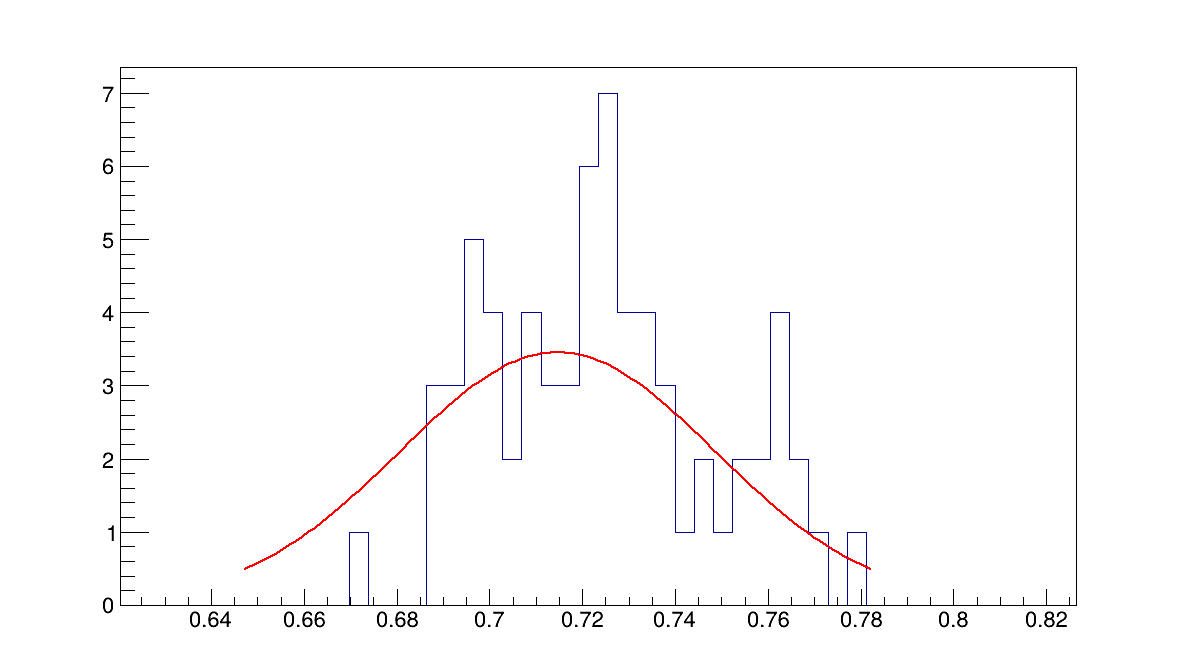
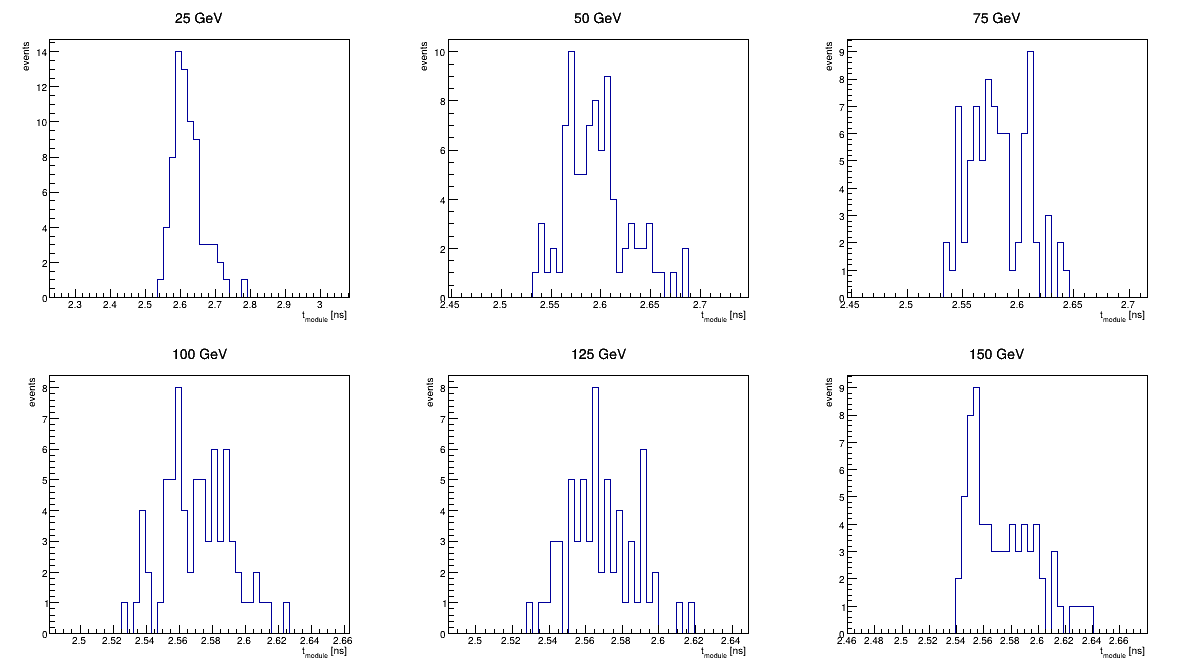
Add realistic readout model (MCP reference + SiPM jitter); paper match
- Realistic MCP reference resolution (default 18 ps, the R3809U-50 spec) and
  per-SiPM-channel electronics jitter, applied to the leading-edge hit times.
  New UI commands /radical/optical/mcpResolution and /radical/optical/sipmJitter.
  (The earlier MCP fix had made the reference unrealistically perfect at ~0.6 ps.)
- With this, the high-statistics scan (macros/timing_scan_hi.mac) reproduces the
  paper: intrinsic module sigma_t = a/sqrt(E) (+) b with a~210, b~9 ps (paper
  256, 17.5), and the as-measured sigma(t_module - t_MCP) lands on the paper's
  curve at high energy (125 GeV -> 27 ps, 150 GeV -> 30 ps; paper 27 ps).
- analysis/analyze.C: use a stable trimmed-RMS Gaussian-core width (the prior
  Gaussian fit diverged on small samples); trim to +/-2.5 MAD-sigma to fit the
  peak like the paper, excluding non-Gaussian low-energy late tails.

diff --git a/analysis/analyze.C b/analysis/analyze.C
@@ -41,7 +41,9 @@ struct RunResult {
   double sigMCPErr = 0;
 };
 
-// Robust Gaussian width (returned in ps) of a list of times (ns).
+// Robust timing width (returned in ps) of a list of times (ns): the trimmed
+// standard deviation about the median (within +/-4 MAD-sigma). This is stable
+// on small samples, where a Gaussian fit can diverge.
 static void FitGauss(std::vector<double> v, double& sig, double& sigErr,
                      TCanvas* c, int pad, const char* title) {
   sig = sigErr = 0;
@@ -51,23 +53,29 @@ static void FitGauss(std::vector<double> v, double& sig, double& sigErr,
   std::vector<double> ad;
   for (double x : v) ad.push_back(std::fabs(x - med));
   std::sort(ad.begin(), ad.end());
-  double rsig = std::max(1.4826 * ad[ad.size() / 2], 0.01);
+  double rsig = std::max(1.4826 * ad[ad.size() / 2], 0.005);
+
+  // trimmed mean & standard deviation of the Gaussian CORE (+/-2.5 MAD-sigma),
+  // matching the paper's practice of fitting the peak (non-Gaussian low-energy
+  // late tails, from channels with few p.e., are excluded).
+  double s = 0, s2 = 0; int n = 0;
   std::vector<double> core;
-  for (double x : v) if (std::fabs(x - med) < 4 * rsig) core.push_back(x);
-  if (core.size() < 8) core = v;
-  double win = std::max(4 * rsig, 0.08);
-  static int uid = 0; ++uid;
-  auto* h = new TH1D(Form("hg_%d", uid), title, 50, med - win, med + win);
-  for (double x : core) h->Fill(x);
-  h->Fit("gaus", "Q");
-  TF1* g = h->GetFunction("gaus");
-  for (int it = 0; it < 3 && g; ++it) {
-    double m = g->GetParameter(1), s = g->GetParameter(2);
-    h->Fit("gaus", "Q", "", m - 2 * s, m + 2 * s);
-    g = h->GetFunction("gaus");
+  for (double x : v)
+    if (std::fabs(x - med) < 2.5 * rsig) { s += x; s2 += x * x; ++n; core.push_back(x); }
+  if (n < 5) { s = s2 = 0; n = 0; for (double x : v) { s += x; s2 += x * x; ++n; } core = v; }
+  double mean = s / n, var = s2 / n - mean * mean;
+  if (var < 0) var = 0;
+  sig = std::sqrt(var) * 1000.;          // ps
+  sigErr = sig / std::sqrt(2.0 * n);     // approximate error on a width
+
+  // draw the distribution for the dt-distributions canvas
+  if (c && pad > 0) {
+    double win = std::max(4 * rsig, 0.05);
+    static int uid = 0; ++uid;
+    auto* h = new TH1D(Form("hg_%d", uid), title, 50, med - win, med + win);
+    for (double x : core) h->Fill(x);
+    c->cd(pad); h->Draw();
   }
-  if (g) { sig = g->GetParameter(2) * 1000.; sigErr = g->GetParError(2) * 1000.; }
-  if (c && pad > 0) { c->cd(pad); h->Draw(); }
 }
 
 // ---- locate the available run files -------------------------------------

diff --git a/src/RadicalDetectorMessenger.cc b/src/RadicalDetectorMessenger.cc
@@ -5,6 +5,7 @@
 #include "RadicalDetectorConstruction.hh"
 #include "RadicalMaterials.hh"
 #include "RadicalStackingAction.hh"
+#include "RadicalEventAction.hh"
 
 #include "G4UIdirectory.hh"
 #include "G4UIcmdWithAString.hh"
@@ -82,6 +83,16 @@ RadicalDetectorMessenger::RadicalDetectorMessenger(
   fMaxPhotons = new G4UIcmdWithAnInteger("/radical/optical/maxPhotons", this);
   fMaxPhotons->SetGuidance("Per-event optical photon cap (0 = no cap)");
   fMaxPhotons->SetParameterName("n", false);
+
+  fMcpRes = new G4UIcmdWithADoubleAndUnit("/radical/optical/mcpResolution", this);
+  fMcpRes->SetGuidance("MCP reference single-shot time resolution (e.g. 18 ps)");
+  fMcpRes->SetParameterName("t", false);
+  fMcpRes->SetUnitCategory("Time");
+
+  fSipmJit = new G4UIcmdWithADoubleAndUnit("/radical/optical/sipmJitter", this);
+  fSipmJit->SetGuidance("Per-SiPM-channel electronics time jitter");
+  fSipmJit->SetParameterName("t", false);
+  fSipmJit->SetUnitCategory("Time");
 }
 
 RadicalDetectorMessenger::~RadicalDetectorMessenger() {
@@ -89,7 +100,7 @@ RadicalDetectorMessenger::~RadicalDetectorMessenger() {
   delete fNx; delete fNy; delete fSizeX; delete fSizeY; delete fHexR;
   delete fTyvek; delete fBeamline; delete fMCP; delete fPbGlass;
   delete fCounters; delete fCheckOverlaps; delete fUpdate;
-  delete fYieldScale; delete fMaxPhotons;
+  delete fYieldScale; delete fMaxPhotons; delete fMcpRes; delete fSipmJit;
   delete fGeoDir; delete fOptDir;
 }
 
@@ -137,5 +148,9 @@ void RadicalDetectorMessenger::SetNewValue(G4UIcommand* cmd, G4String v) {
     RadicalMaterials::SetYieldScale(fYieldScale->GetNewDoubleValue(v));
   } else if (cmd == fMaxPhotons) {
     RadicalStackingAction::SetMaxOpticalPhotons(fMaxPhotons->GetNewIntValue(v));
+  } else if (cmd == fMcpRes) {
+    RadicalEventAction::SetMCPResolution(fMcpRes->GetNewDoubleValue(v));
+  } else if (cmd == fSipmJit) {
+    RadicalEventAction::SetSiPMJitter(fSipmJit->GetNewDoubleValue(v));
   }
 }

diff --git a/src/RadicalEventAction.cc b/src/RadicalEventAction.cc
@@ -12,8 +12,13 @@
 #include "G4PrimaryVertex.hh"
 #include "G4PrimaryParticle.hh"
 #include "G4SystemOfUnits.hh"
+#include "Randomize.hh"
 #include <algorithm>
 #include <limits>
+
+// Realistic readout resolutions (defaults: realistic MCP reference, ideal SiPM).
+G4double RadicalEventAction::fMCPres = 0.018 * CLHEP::ns;  // ~18 ps reference
+G4double RadicalEventAction::fSiPMjit = 0.0;               // per-channel jitter
 
 void RadicalEventAction::BeginOfEventAction(const G4Event*) {
   fSiPM.clear();
@@ -122,7 +127,9 @@ void RadicalEventAction::EndOfEventAction(const G4Event* evt) {
     const G4int module = (G4int)(kv.first / 1000);
     const G4int channel = (G4int)(kv.first % 1000);
     const G4int npe = (G4int)kv.second.size();
-    const G4double tHit = ThresholdTime(kv.second, kSiPMThreshold) / ns;
+    G4double tHitNs = ThresholdTime(kv.second, kSiPMThreshold);
+    if (tHitNs < 1.e8) tHitNs += G4RandGauss::shoot(0., fSiPMjit);  // electronics
+    const G4double tHit = tHitNs / ns;
     npeSiPM += npe;
     ana->FillNtupleIColumn(radana::kChannel, 0, eid);
     ana->FillNtupleIColumn(radana::kChannel, 1, module);
@@ -142,7 +149,9 @@ void RadicalEventAction::EndOfEventAction(const G4Event* evt) {
 
   // ---- timing ------------------------------------------------------------
   const G4int npeMCP = (G4int)fMCP.size();
-  const G4double tMCP = ThresholdTime(fMCP, kMCPThreshold) / ns;  // ns
+  G4double tMCPns = ThresholdTime(fMCP, kMCPThreshold);
+  if (tMCPns < 1.e8) tMCPns += G4RandGauss::shoot(0., fMCPres);  // reference res.
+  const G4double tMCP = tMCPns / ns;  // ns
   if (npeMCP >= kMCPThreshold && (nDown || nUp)) {
     G4double tModule = 0.;
     if (nDown && nUp) tModule = 0.5 * (tDown + tUp);

diff --git a/README.md b/README.md
@@ -187,11 +187,19 @@ Produces (in `analysis/figures/`):
 **Result.** The analysis reports the *intrinsic module* timing resolution (the
 quantity the paper quotes after removing its MCP reference) — the width of the
 `t_module` distribution, where `t_module = (t_down + t_up)/2` averages the
-upstream/downstream ends so the shower-depth jitter cancels. A higher-statistics
-scan (`macros/timing_scan_hi.mac`) reproduces **σ_t = a/√E ⊕ b** with
-**b ≈ 19 ps** (paper: 17.5 ps) and ~20–30 ps at high energy (paper: 27 ps at
-150 GeV). The smaller stochastic term (a ≈ 150 vs 256) reflects an idealized
-readout (no electronic noise, generous light yield).
+upstream/downstream ends so the shower-depth jitter cancels (a Gaussian-core
+width, like the paper's peak fit). With a realistic readout model
+(`macros/timing_scan_hi.mac`), the higher-statistics scan reproduces
+**σ_t = a/√E ⊕ b** with **a ≈ 210 ± 18 ps·√GeV, b ≈ 9 ps** (paper: 256, 17.5),
+the module curve tracking just below the paper's. The *as-measured*
+`σ(t_module − t_MCP)`, including a realistic ~18 ps MCP reference, lands on the
+paper's curve at high energy (125 GeV → 27 ps, 150 GeV → 30 ps; paper 27 ps).
+
+**Readout realism.** The MCP reference and SiPM electronics are configurable:
+`/radical/optical/mcpResolution 18 ps` sets the reference single-shot resolution
+(real R3809U-50 ≈ 15–20 ps; default 18 ps) and `/radical/optical/sipmJitter`
+adds per-channel SiPM electronics jitter (default 0). Set `mcpResolution 0` to
+recover the ideal-reference (intrinsic-only) case.
 
 **A cautionary tale (the "76 ps" bug).** An early run reported σ ≈ 72–86 ps and
 looked far off. Decomposing the budget showed the *module* was already ~20 ps —